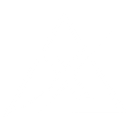
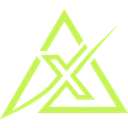
Brand: a lime mark on a black tile everywhere
make-brand.mjs now draws the mark in the app's lime (#c6f25a) on black
(#0b0d0c): web favicons, PWA and Apple icons, extension toolbar icons
and the share card (black with lime). The extension's in-card mark is
lime (black on X's white theme), and the PWA's splash and title bar are
black.

Changed region(s): [[0.0, 0.0625, 1.0, 0.9375]]

diff --git a/kallr-extension/src/styles.ts b/kallr-extension/src/styles.ts
@@ -18,7 +18,7 @@ a { color: inherit; }
   --lime: #c6f25a; --on-lime: #0e1407; --positive: #8ad97c; --negative: #ff8a7a; --warning: #f0c766;
 }
 .wordmark { display: inline-flex; align-items: center; gap: 6px; font-weight: 800; letter-spacing: -0.02em; color: var(--foreground); }
-.brand-mark-glyph { display: inline-block; flex: 0 0 auto; background-color: currentColor;
+.brand-mark-glyph { display: inline-block; flex: 0 0 auto; background-color: var(--lime);
   -webkit-mask-size: contain; mask-size: contain; -webkit-mask-repeat: no-repeat; mask-repeat: no-repeat;
   -webkit-mask-position: center; mask-position: center; }
 .card .title .wordmark { font: 800 15px/1 Inter, system-ui, sans-serif; gap: 8px; }
@@ -37,6 +37,8 @@ button:focus-visible, a:focus-visible, summary:focus-visible, input:focus-visibl
 :host([data-theme="light"]) .inline-card { --surface: #fff; --raised: #f7f9f9; --foreground: #0f1419; --muted: #536471;
   --line: #cfd9de; --line-strong: #aab8c2; --positive: #00875a; --negative: #d0182a; }
 .inline-card * { font-family: -apple-system, BlinkMacSystemFont, "Segoe UI", sans-serif; }
+/* Lime mark on X's dark themes; on the white theme lime is too faint, so it goes black. */
+:host([data-theme="light"]) .inline-card .brand-mark-glyph { background-color: #0e1407; }
 .inline-card a { color: #1d9bf0; }
 .inline-card button:focus-visible, .inline-card summary:focus-visible, .inline-card input:focus-visible { outline: 2px solid #1d9bf0; outline-offset: 3px; }
 .inline-card.inline-attached { margin-top: 8px; }

diff --git a/kallr-extension/src/dom.ts b/kallr-extension/src/dom.ts
@@ -36,8 +36,8 @@ export function assetUrl(path: string) {
 }
 
 /**
- * The Kallr mark. The packaged PNG is used as a mask and filled with currentColor, so the
- * mark is white on X's dark theme and ink on light without separate assets.
+ * The Kall Markets mark. The packaged PNG is used as a mask and filled with lime, so the
+ * mark is lime (black on X's white theme) without separate assets.
  */
 export function brandMark(size = 16) {
   // Inlined, so the mark survives extension reloads (file URLs from an old install break).

diff --git a/kallr-webapp/app/manifest.ts b/kallr-webapp/app/manifest.ts
@@ -11,8 +11,8 @@ export default function manifest(): MetadataRoute.Manifest {
     display: "standalone",
     display_override: ["window-controls-overlay", "standalone"],
     orientation: "any",
-    background_color: "#F3F5F8",
-    theme_color: "#F3F5F8",
+    background_color: "#050605",
+    theme_color: "#050605",
     categories: ["finance", "social"],
     icons: [
       { src: "/icons/icon-192.png", sizes: "192x192", type: "image/png", purpose: "any" },
